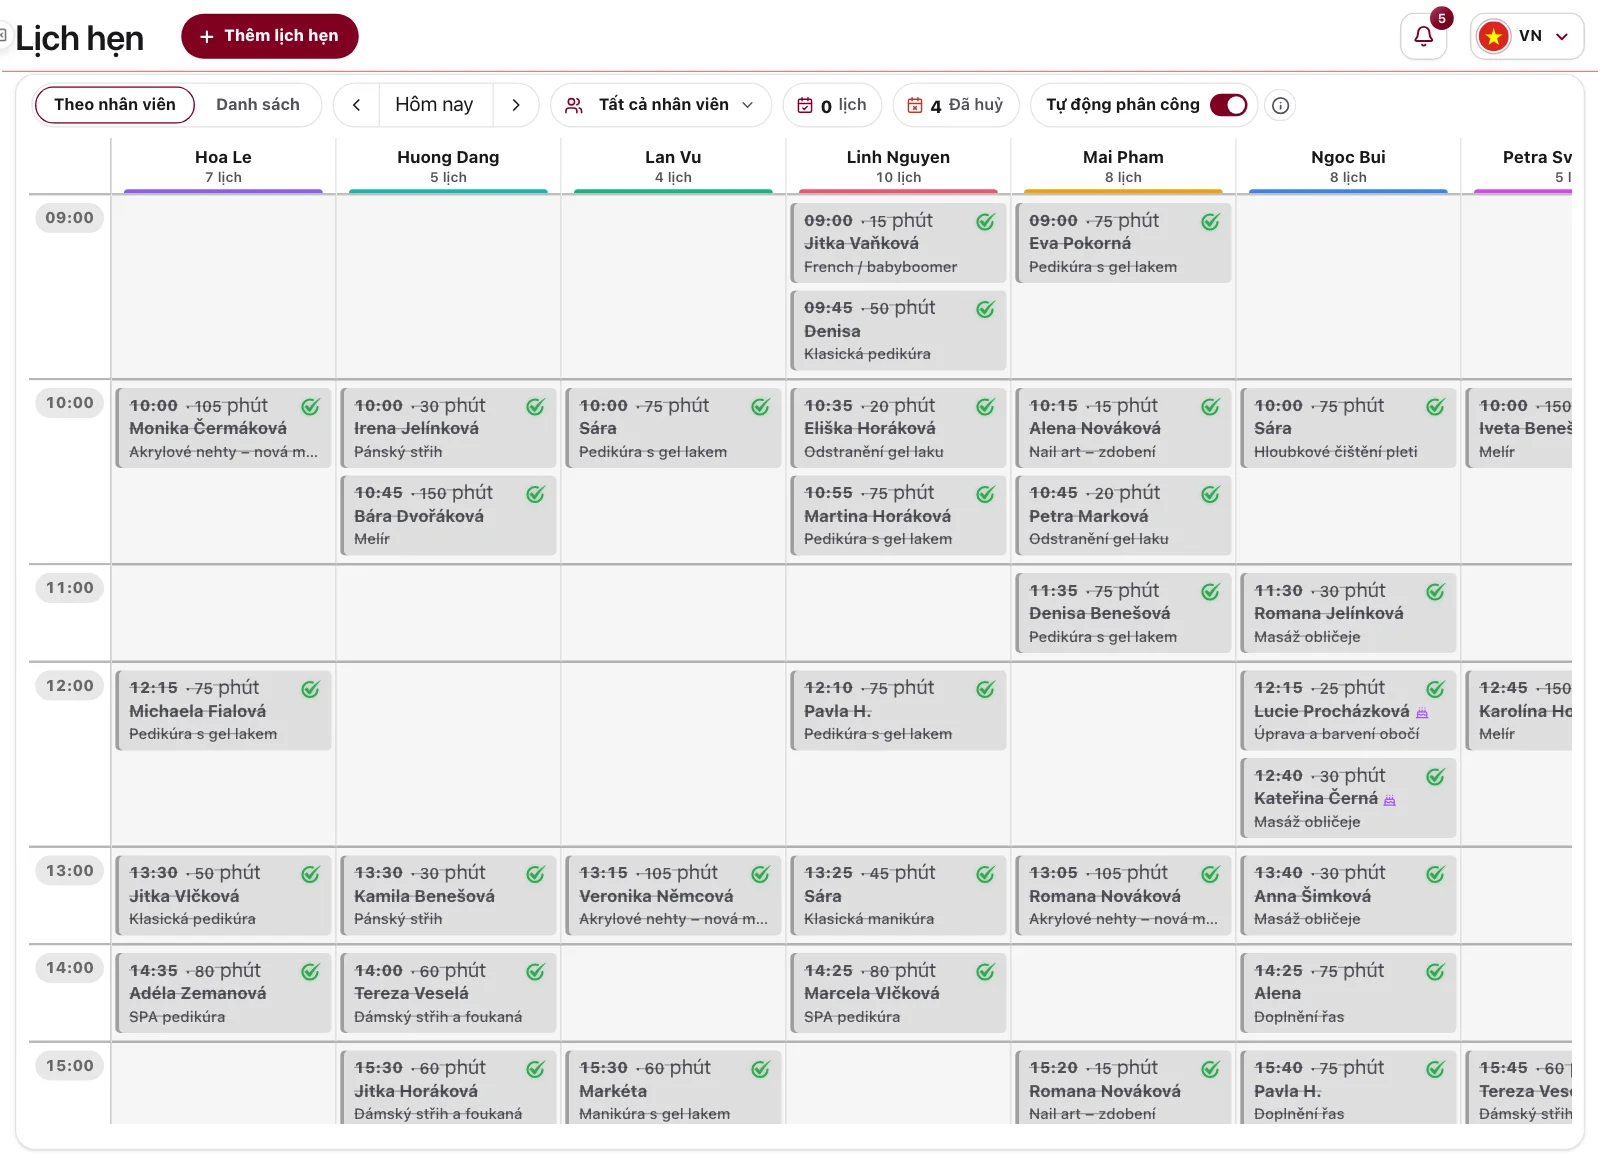
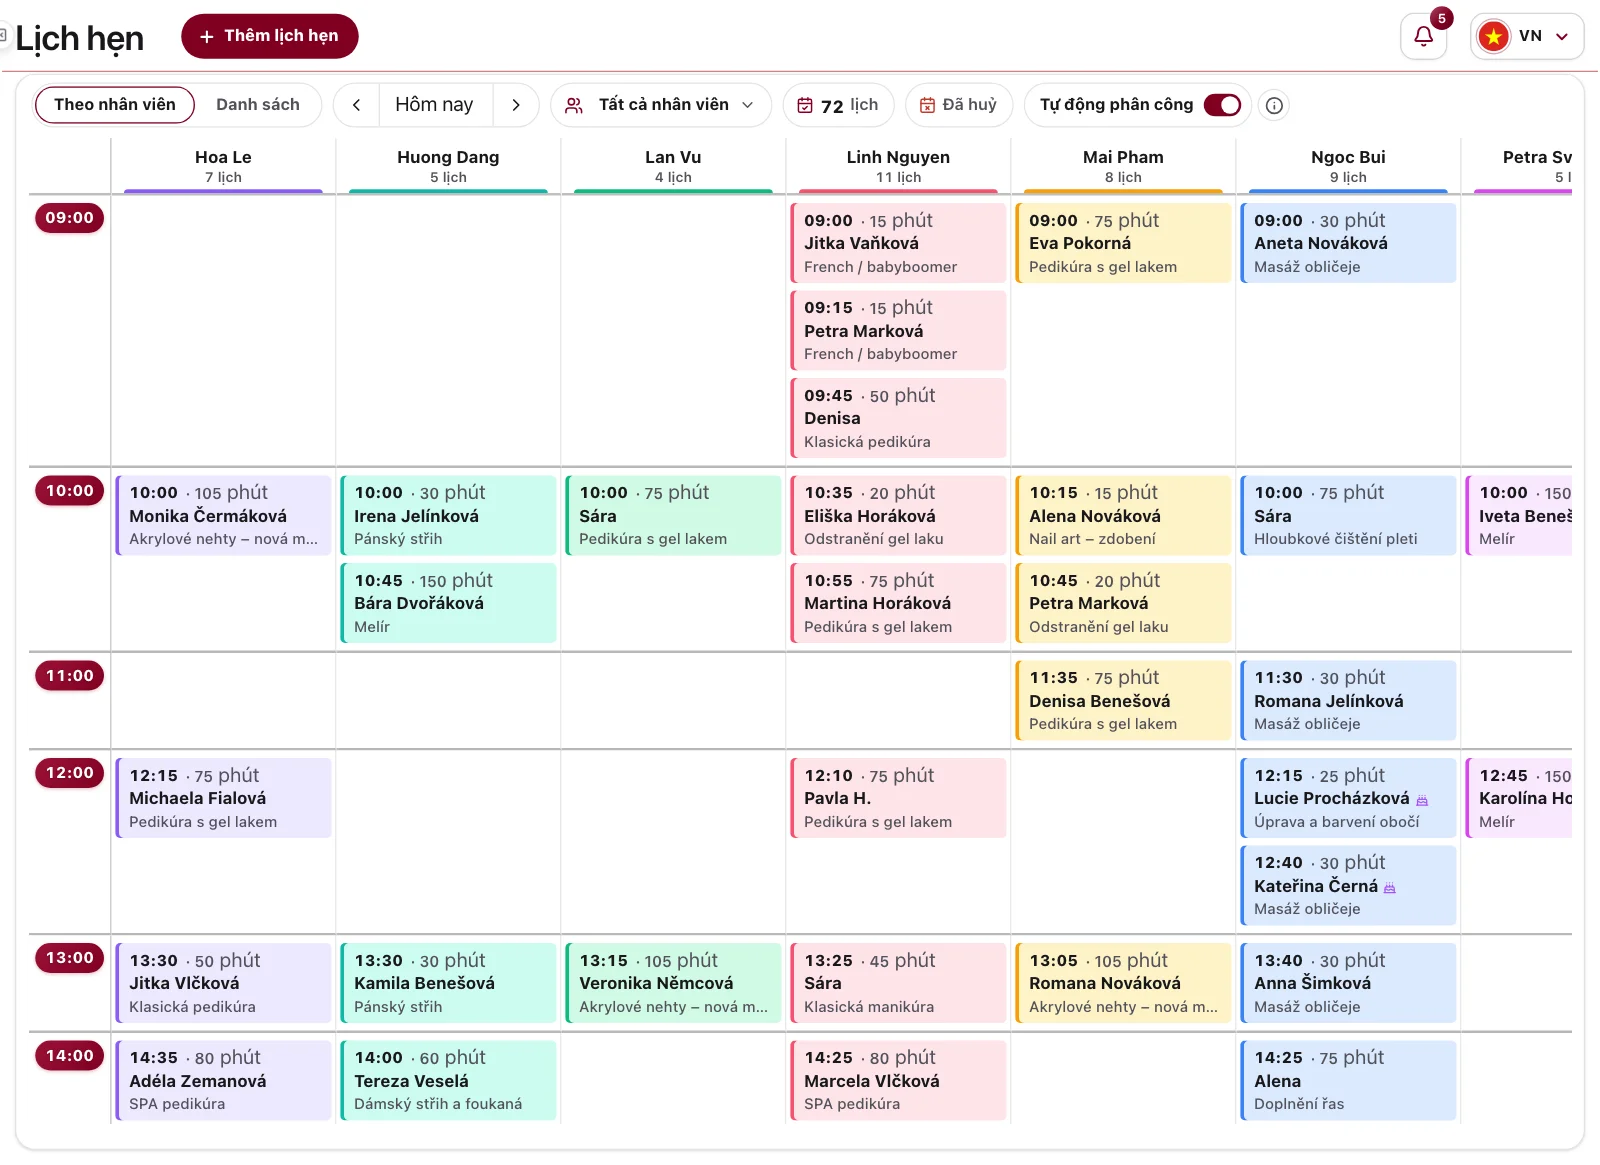
home: staff calendar shots with every booking still to do; 20:00 closing step shows today's revenue, not 30 days

diff --git a/src/components/home/HomeFeatures.tsx b/src/components/home/HomeFeatures.tsx
@@ -13,7 +13,8 @@ const ITEMS = [
   { id: "s4", anchor: "nhan-vien", img: A + "nhan-vien-noi-dung.webp", mobile: A + "m-nv-hom-nay.webp" },
   { id: "s5", anchor: "tinh-tien", img: A + "tinh-tien-noi-dung.webp", mobile: A + "m-tinh-tien.webp" },
   { id: "s6", anchor: "khach-hang", img: A + "khach-hang-noi-dung.webp", mobile: A + "m-khach-hang.webp" },
-  { id: "s7", anchor: "bao-cao", img: A + "tong-quan-30-ngay-noi-dung.webp", mobile: A + "m-tong-quan.webp" },
+  // 20:00 chốt sổ: doanh thu của chính ngày đó (Tổng quan "Hôm nay"), không phải 30 ngày
+  { id: "s7", anchor: "bao-cao", img: A + "tong-quan-noi-dung.webp", mobile: A + "m-tong-quan.webp" },
   { id: "s8", anchor: "tinh-luong", img: A + "tinh-luong-noi-dung.webp", mobile: A + "m-tinh-luong.webp" },
 ] as const;
 
